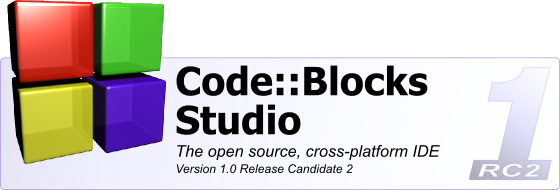
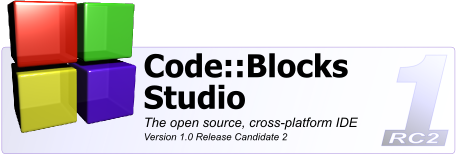
* Updated new splash screen

diff --git a/src/src/app.cpp b/src/src/app.cpp
@@ -396,7 +396,12 @@ void CodeBlocksApp::ShowSplashScreen()
 	if (!m_NoSplash && ConfigManager::Get()->Read(_T("/environment/show_splash"), 1) == 1)
 	{
 		wxBitmap bitmap;
-		if (bitmap.LoadFile(CFG_READ(_T("/data_path")) + _T("/images/splash_new.png"), wxBITMAP_TYPE_PNG))
+		#ifdef __WXMSW__
+			#define SPLASH_IMAGE _T("/images/splash_new.png")
+		#else
+			#define SPLASH_IMAGE _T("/images/splash.png")
+		#endif
+		if (bitmap.LoadFile(CFG_READ(_T("/data_path")) + SPLASH_IMAGE, wxBITMAP_TYPE_PNG))
 		{
 			m_pSplash = new wxSplashScreen(bitmap,
 										wxSPLASH_CENTRE_ON_SCREEN,// | wxSPLASH_TIMEOUT,
